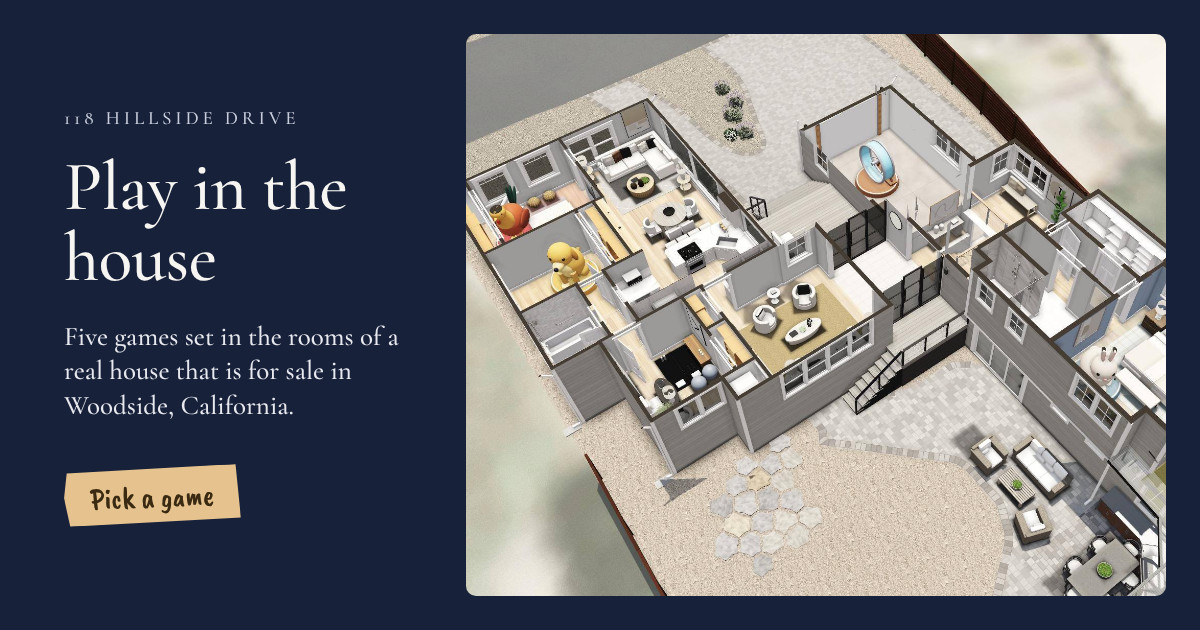
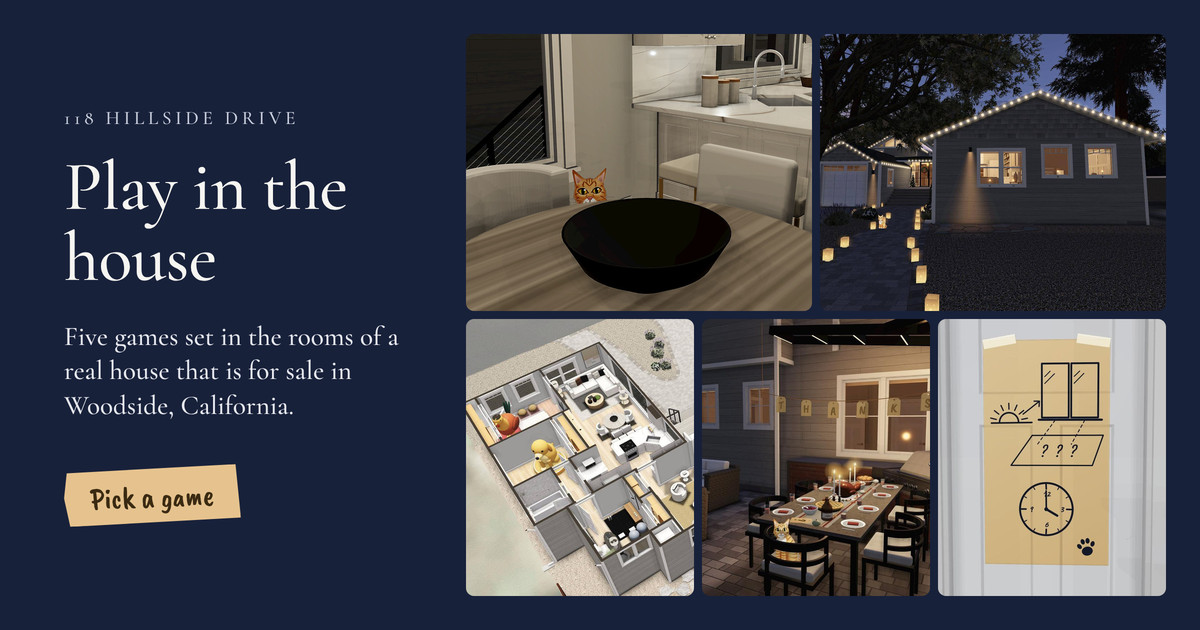
Games page share picture: one scene from each of the five games
Claude-Session: https://claude.ai/code/session_01Hxt75sfKTMFyJxUTwDrGyS

diff --git a/games/index.html b/games/index.html
@@ -11,15 +11,15 @@
 <meta property="og:site_name" content="118 Hillside Drive, Woodside">
 <meta property="og:locale" content="en_US">
 <meta property="og:title" content="Play in the house | 118 Hillside Drive">
-<meta property="og:description" content="Games set in the rooms of a real house that is for sale in Woodside, California.">
+<meta property="og:description" content="Five games set in the rooms of a real house for sale in Woodside, California. Find a hiding cat, give each visiting animal the right room, read the sunlight to open a lock, put Thanksgiving dinner on the table, and decorate for the holidays.">
 <meta property="og:url" content="https://118hillside.com/games/">
 <meta property="og:image" content="https://118hillside.com/images/games-preview.jpg">
 <meta property="og:image:width" content="1200">
 <meta property="og:image:height" content="630">
-<meta property="og:image:alt" content="Animal game pieces standing in the rooms of the 3D model of 118 Hillside Drive, seen from above with the roof off">
+<meta property="og:image:alt" content="Scenes from five games in the 3D model of 118 Hillside Drive: an orange cat peeking over a dining chair, the house lit at dusk, animal pieces in the rooms, dinner on the terrace and a clue taped to a door">
 <meta name="twitter:card" content="summary_large_image">
 <meta name="twitter:title" content="Play in the house | 118 Hillside Drive">
-<meta name="twitter:description" content="Games set in the rooms of a real house that is for sale in Woodside, California.">
+<meta name="twitter:description" content="Five games set in the rooms of a real house for sale in Woodside, California. Find a hiding cat, give each visiting animal the right room, read the sunlight to open a lock, put Thanksgiving dinner on the table, and decorate for the holidays.">
 <meta name="twitter:image" content="https://118hillside.com/images/games-preview.jpg">
 <meta name="geo.region" content="US-CA">
 <meta name="geo.placename" content="Woodside">
